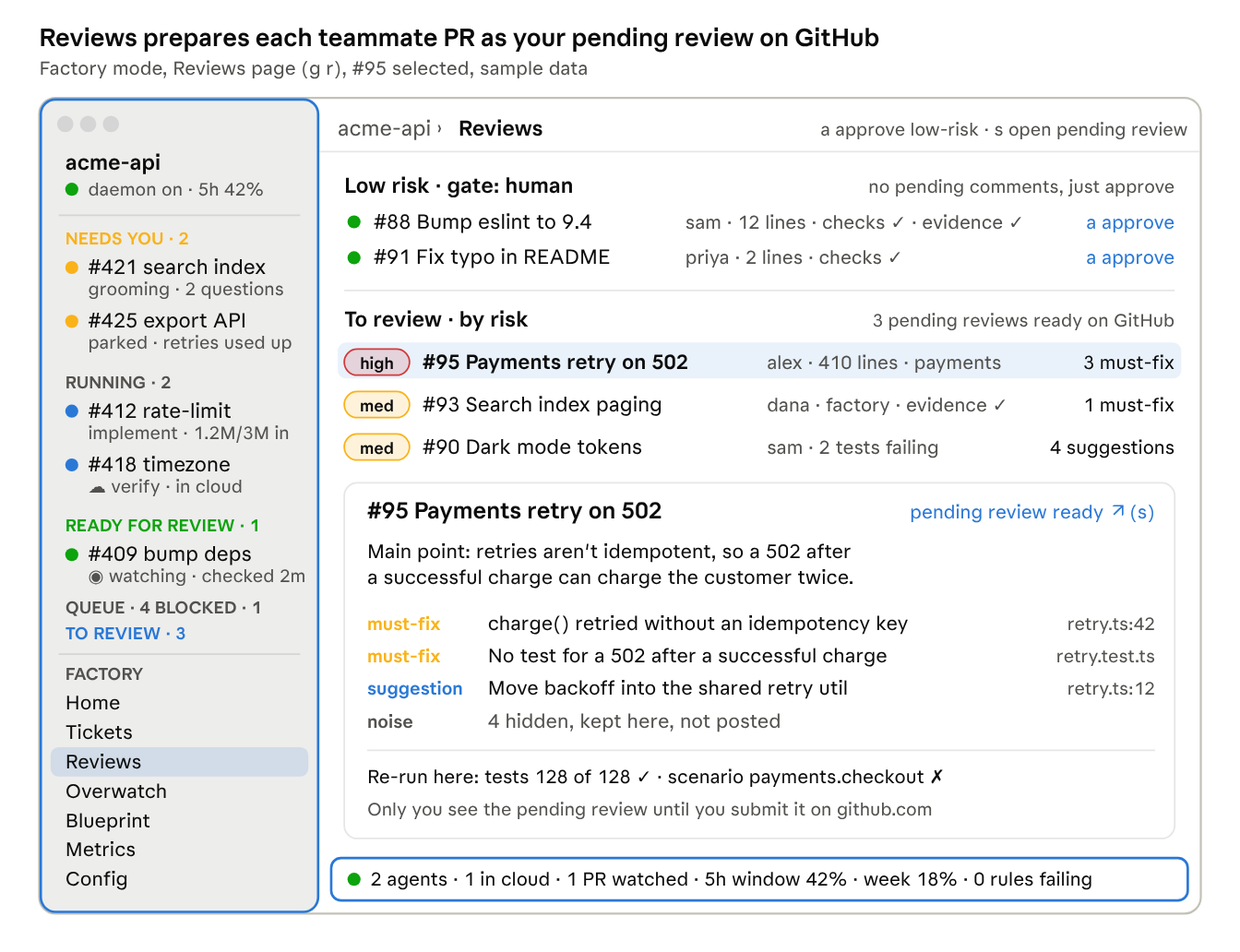
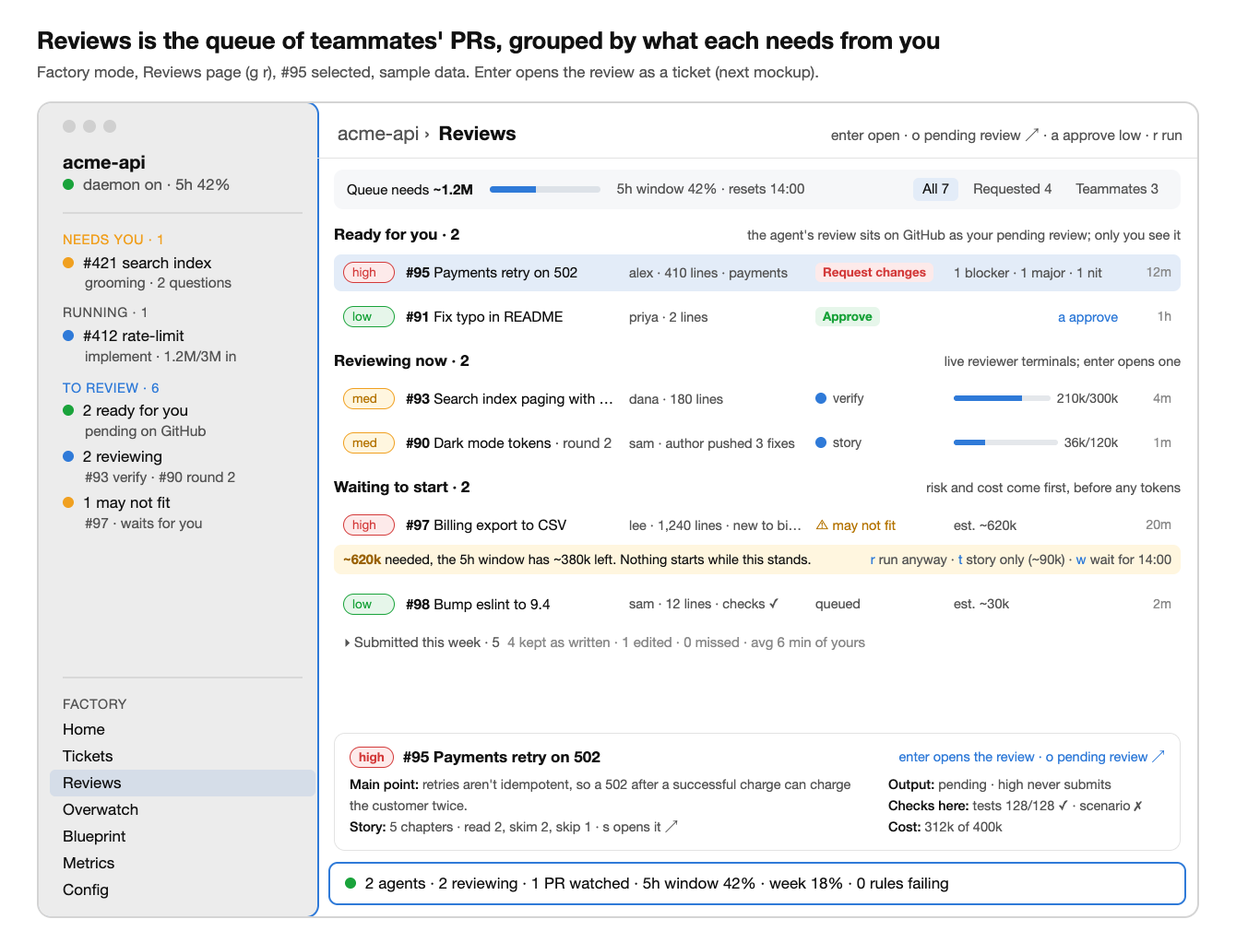
Redesign the Reviews page for peer review as a ticket
The old page (a low-risk fast lane, then a risk-ordered list with must-fix,
suggestion and noise) predates the M6 redesign. The new one is two views:
a queue grouped by what each PR needs from you (ready, reviewing, waiting
with the cost warning, submitted), and the review as a ticket with Findings,
Story, Checks, Questions and Rounds tabs beside the live reviewer terminal or
the comment as it will read on GitHub. Three mockups, their HTML sources and a
render script; reviews.json's version 2 fields in the plan.

Changed region(s): [[0.0306, 0.0307, 0.9791, 1.0], [0.2448, 0.1842, 0.9791, 0.4911], [0.8567, 0.6446, 0.9485, 0.7366]]

diff --git a/docs/layouts/src/08c-review-round.html b/docs/layouts/src/08c-review-round.html
@@ -1,0 +1,113 @@
+<!doctype html><html><head><meta charset="utf-8"><link rel="stylesheet" href="mock.css">
+<style>
+.split { flex: 1; min-height: 0; display: grid; grid-template-columns: 1fr 375px; gap: 12px; }
+.left { border: 2px solid var(--focus); border-radius: 12px; padding: 16px 18px; display: flex; flex-direction: column; gap: 12px; min-width: 0; }
+.vbar { display: flex; align-items: center; gap: 12px; padding: 10px 12px; border-radius: 10px; background: var(--red-bg); }
+.vbar .v { font-weight: 700; color: var(--red); font-size: 17px; } .vbar .why { color: var(--muted); font-size: 14.5px; }
+.vbar .out { margin-left: auto; font-size: 14.5px; text-align: right; color: var(--muted); line-height: 1.35; } .vbar .out b { color: var(--ink); font-weight: 600; }
+.stages { display: flex; align-items: center; gap: 0; font-size: 14px; color: var(--muted); }
+.stages span { display: flex; align-items: center; gap: 6px; } .stages span::before { content: ""; width: 10px; height: 10px; border-radius: 50%; background: var(--green); }
+.stages i { flex: 1; height: 2px; background: #cfd5dc; margin: 0 6px; min-width: 8px; } .stages .cost { margin-left: 16px; white-space: nowrap; }
+.tabs { white-space: nowrap; display: flex; gap: 4px; border-bottom: 1px solid var(--line); font-size: 15px; } .tabs span { padding: 6px 12px; color: var(--muted); border-bottom: 2px solid transparent; margin-bottom: -1px; }
+.tabs .on { color: var(--ink); border-color: var(--focus); font-weight: 600; } .tabs em { font-style: normal; color: var(--dim); }
+.f { display: grid; grid-template-columns: 74px 1fr auto; gap: 2px 12px; padding: 9px 10px; border-radius: 8px; }
+.f.sel { background: var(--sel); }
+.sev { font-size: 12.5px; font-weight: 700; letter-spacing: .5px; padding-top: 2px; } .sev.b { color: var(--red); } .sev.m { color: #b47300; } .sev.n { color: var(--dim); }
+.f .tx { font-size: 15.5px; } .f .loc { font-size: 13.5px; color: var(--dim); text-align: right; }
+.f .ev { grid-column: 2 / 4; font-size: 13.5px; color: var(--muted); }
+.vote { display: inline-block; font-size: 12.5px; padding: 0 6px; border-radius: 5px; margin-right: 8px; }
+.vote.k { background: var(--green-bg); color: var(--green); } .vote.s { background: var(--amber-bg); color: #9a6200; }
+.foot { font-size: 14px; color: var(--muted); padding: 2px 10px; }
+.q { border-top: 1px solid var(--line); padding-top: 10px; font-size: 15px; } .q b { font-weight: 600; }
+.right { display: flex; flex-direction: column; gap: 10px; min-width: 0; }
+.code { flex: 1; border: 1.5px solid var(--line); border-radius: 12px; overflow: hidden; display: flex; flex-direction: column; background: #fbfbfc; }
+.code .t { padding: 9px 14px; font-size: 14.5px; border-bottom: 1px solid var(--line); background: #fff; display: flex; } .code .t span { margin-left: auto; color: var(--dim); font-size: 13.5px; }
+.ln { white-space: pre; display: grid; grid-template-columns: 38px 1fr; font: 12.5px/1.6 "SF Mono", Menlo, monospace; padding: 0 10px 0 0; }
+.ln i { font-style: normal; color: #aab; text-align: right; padding-right: 10px; } .ln.hl { background: #fff1c9; }
+.kw { color: #a626a4; } .fn { color: #4078f2; } .st { color: #50a14f; } .cm { color: #a0a1a7; }
+.gh { white-space: normal; margin: 6px 12px 8px 40px; border: 1.5px solid var(--line); border-radius: 10px; background: #fff; padding: 9px 12px; font-size: 14px; line-height: 1.45; }
+.gh .who { color: var(--muted); font-size: 13px; margin-bottom: 4px; } .gh .who b { color: var(--ink); }
+.term { border: 1.5px solid var(--line); border-radius: 12px; padding: 10px 14px; font: 13px/1.55 "SF Mono", Menlo, monospace; color: var(--muted); background: #f6f6f6; }
+.term b { font-family: -apple-system, sans-serif; font-size: 14px; color: var(--ink); font-weight: 600; }
+.msg { border: 1.5px solid var(--line); border-radius: 10px; padding: 9px 14px; color: var(--dim); font-size: 15px; display: flex; } .msg span { margin-left: auto; color: var(--blue); }
+
+.ch { display: grid; grid-template-columns: 26px 1fr 64px 92px; gap: 2px 10px; align-items: baseline; padding: 8px 10px; border-radius: 8px; }
+.ch.sel { background: var(--sel); } .ch .n { color: var(--dim); } .ch .tt { font-size: 15.5px; } .ch .why { grid-column: 2 / 5; font-size: 13.5px; color: var(--muted); }
+.tier { font-size: 12.5px; font-weight: 600; padding: 0 7px; border-radius: 5px; text-align: center; } .tier.read { background: var(--blue-bg); color: var(--blue); } .tier.skim { background: #eef0f3; color: var(--muted); } .tier.skip { color: var(--dim); }
+.ch .sz { text-align: right; font-size: 13.5px; color: var(--dim); }
+.rd { font-size: 14px; } .rd h4 { margin: 0 0 6px; font-size: 14.5px; font-weight: 600; } .rd div { display: grid; grid-template-columns: 100px 1fr; gap: 6px; align-items: baseline; padding: 3px 0; }
+.st.f { color: var(--green); } .st.p { color: #9a6200; } .st.o { color: var(--red); }
+.live { flex: 1; border: 2px solid var(--focus); border-radius: 12px; background: #1e1f22; color: #d6d6d6; font: 12.5px/1.65 "SF Mono", Menlo, monospace; padding: 0; overflow: hidden; display: flex; flex-direction: column; }
+.live .t { background: #2a2b2f; color: #eee; padding: 8px 12px; font: 14px -apple-system, sans-serif; } .live .t span { color: #9aa; }
+.live pre { margin: 0; padding: 10px 12px; white-space: pre-wrap; } .live .g { color: #7fd18b; } .live .y { color: #f0c060; } .live .c { color: #7aa7ff; }
+.live .ft { margin-top: auto; padding: 8px 12px; color: #889; font: 13px -apple-system, sans-serif; }
+.stages .todo::before { background: #cfd5dc; }
+.stages .cost::before { display: none; }
+</style></head><body>
+<h1>A re-review shows its story and what each round's findings became</h1>
+<div class="sub">Factory mode, review #90 on round 2 (author pushed fixes), Story tab, sample data. While it runs, the right side is the live reviewer terminal.</div>
+<div class="win">
+  <div class="side">
+    <div class="dots"><i></i><i></i><i></i></div>
+    <div class="brand">acme-api</div><div><span class="dot g"></span>daemon on · 5h 42%</div>
+    <hr>
+    <div class="grp y">NEEDS YOU · 1</div>
+    <div class="it"><span class="dot y"></span>#421 search index<small>grooming · 2 questions</small></div>
+    <div class="grp">RUNNING · 1</div>
+    <div class="it"><span class="dot b"></span>#412 rate-limit<small>implement · 1.2M/3M in</small></div>
+    <div class="grp b" style="margin-top:8px">TO REVIEW · 6</div>
+    <div class="it"><span class="dot g"></span>2 ready for you<small>pending on GitHub</small></div>
+    <div class="it"><span class="dot b"></span>#93 search paging<small>verify · 210k/300k</small></div>
+    <div class="it" style="background:#d5dde8;margin:0 -14px 6px;padding:2px 14px;border-radius:6px"><span class="dot b"></span>#90 dark mode<small>round 2 · story</small></div>
+    <hr style="margin-top:auto">
+    <div class="grp">FACTORY</div>
+    <div class="menu"><div>Home</div><div>Tickets</div><div class="on">Reviews</div><div>Overwatch</div><div>Blueprint</div><div>Metrics</div><div>Config</div></div>
+  </div>
+  <div class="main">
+    <div class="hdr"><span class="crumb">acme-api › Reviews ›</span><b>#90 Dark mode tokens</b><span class="keys">s story ↗ · e terminal · p pause · d diff</span></div>
+    <div class="body">
+      <div class="split">
+        <div class="left">
+          <div class="stages"><span>intake</span><i></i><span>prep</span><i></i><span style="color:var(--blue)">story</span><i></i><span class="todo">review</span><i></i><span class="todo">verify</span><i></i><span class="todo">post</span><span class="cost">36k/120k</span></div>
+          <div class="tabs"><span>1 Findings</span><span class="on">2 Story <em>4</em></span><span>3 Checks</span><span>4 Questions</span><span>5 Rounds <em>2</em></span></div>
+          <div class="muted" style="font-size:14.5px;padding:0 10px">Read these first, in this order. Every why links to where it was written; s opens the full story ↗</div>
+          <div>
+            <div class="ch sel"><span class="n">1</span><span class="tt">Core: tokens move from hex to theme roles</span><span class="tier read">read</span><span class="sz">+140 −96</span>
+              <span class="why">why: "one source for both themes" · PR body ↗</span></div>
+            <div class="ch"><span class="n">2</span><span class="tt">What it affects: 14 components read roles</span><span class="tier skim">skim</span><span class="sz">+62 −62</span>
+              <span class="why">mechanical rename, same pattern each time</span></div>
+            <div class="ch"><span class="n">3</span><span class="tt">Glue: the theme provider picks light or dark</span><span class="tier read">read</span><span class="sz">+38 −4</span>
+              <span class="why">why: <span class="amb">nobody wrote it down</span> → becomes a question for sam</span></div>
+            <div class="ch"><span class="n">4</span><span class="tt">Tests and snapshots</span><span class="tier skip">skip</span><span class="sz">+210 −180</span>
+              <span class="why">generated snapshots; the checks re-run them here</span></div>
+          </div>
+          <div class="rd" style="border-top:1px solid var(--line);padding:10px 10px 0"><h4>Round 1 → round 2 <span class="muted" style="font-weight:400">· sam pushed 3 commits</span></h4>
+            <div><span class="st f">fixed</span><span>Contrast below 4.5:1 on muted text · in a1b2c3, checked again ✓</span></div>
+            <div><span class="st f">fixed</span><span>Hard-coded #fff in Toast · in d4e5f6</span></div>
+            <div><span class="st p">pushed back</span><span>"Keep the old names as aliases": sam says no callers remain. Verify checks that claim.</span></div>
+            <div><span class="st o">open</span><span>No dark-mode snapshot for Modal</span></div>
+          </div>
+        </div>
+        <div class="right">
+          <div class="live">
+            <div class="t">reviewer <span>· round 2 · story · ctx 18% · live Herdr terminal</span></div>
+<pre><span class="c">&gt;</span> Reading the round 1 review and 3 new commits
+<span class="c">&gt;</span> git diff round-1..HEAD -- src/theme
+<span class="g">✓</span> a1b2c3 fixes "contrast below 4.5:1"
+<span class="g">✓</span> d4e5f6 fixes "hard-coded #fff"
+<span class="c">&gt;</span> rg -n "colors\.(primary|muted)" src
+<span class="y">!</span> 0 callers left: sam's pushback holds
+<span class="c">&gt;</span> Chapter 3: why does the provider read
+  prefers-color-scheme before settings?
+  Not in the PR, commits or ticket.
+<span class="c">&gt;</span> Writing STORY.md chapter 3 …
+<span style="background:#d6d6d6"> </span></pre>
+            <div class="ft">type here to steer the reviewer</div>
+          </div>
+        </div>
+      </div>
+    </div>
+    <div class="status"><span class="dot g"></span>2 agents · 2 reviewing · 1 PR watched · 5h window 42% · week 18% · 0 rules failing</div>
+  </div>
+</div>
+</body></html>

diff --git a/docs/layouts/src/08b-review.html b/docs/layouts/src/08b-review.html
@@ -1,0 +1,99 @@
+<!doctype html><html><head><meta charset="utf-8"><link rel="stylesheet" href="mock.css">
+<style>
+.split { flex: 1; min-height: 0; display: grid; grid-template-columns: 1fr 375px; gap: 12px; }
+.left { border: 2px solid var(--focus); border-radius: 12px; padding: 16px 18px; display: flex; flex-direction: column; gap: 12px; min-width: 0; }
+.vbar { display: flex; align-items: center; gap: 12px; padding: 10px 12px; border-radius: 10px; background: var(--red-bg); }
+.vbar .v { font-weight: 700; color: var(--red); font-size: 17px; } .vbar .why { color: var(--muted); font-size: 14.5px; }
+.vbar .out { margin-left: auto; font-size: 14.5px; text-align: right; color: var(--muted); line-height: 1.35; } .vbar .out b { color: var(--ink); font-weight: 600; }
+.stages { display: flex; align-items: center; gap: 0; font-size: 14px; color: var(--muted); }
+.stages span { display: flex; align-items: center; gap: 6px; } .stages span::before { content: ""; width: 10px; height: 10px; border-radius: 50%; background: var(--green); }
+.stages i { flex: 1; height: 2px; background: #cfd5dc; margin: 0 6px; min-width: 8px; } .stages .cost { margin-left: 16px; white-space: nowrap; }
+.tabs { white-space: nowrap; display: flex; gap: 4px; border-bottom: 1px solid var(--line); font-size: 15px; } .tabs span { padding: 6px 12px; color: var(--muted); border-bottom: 2px solid transparent; margin-bottom: -1px; }
+.tabs .on { color: var(--ink); border-color: var(--focus); font-weight: 600; } .tabs em { font-style: normal; color: var(--dim); }
+.f { display: grid; grid-template-columns: 74px 1fr auto; gap: 2px 12px; padding: 9px 10px; border-radius: 8px; }
+.f.sel { background: var(--sel); }
+.sev { font-size: 12.5px; font-weight: 700; letter-spacing: .5px; padding-top: 2px; } .sev.b { color: var(--red); } .sev.m { color: #b47300; } .sev.n { color: var(--dim); }
+.f .tx { font-size: 15.5px; } .f .loc { font-size: 13.5px; color: var(--dim); text-align: right; }
+.f .ev { grid-column: 2 / 4; font-size: 13.5px; color: var(--muted); }
+.vote { display: inline-block; font-size: 12.5px; padding: 0 6px; border-radius: 5px; margin-right: 8px; }
+.vote.k { background: var(--green-bg); color: var(--green); } .vote.s { background: var(--amber-bg); color: #9a6200; }
+.foot { font-size: 14px; color: var(--muted); padding: 2px 10px; }
+.q { border-top: 1px solid var(--line); padding-top: 10px; font-size: 15px; } .q b { font-weight: 600; }
+.right { display: flex; flex-direction: column; gap: 10px; min-width: 0; }
+.code { flex: 1; border: 1.5px solid var(--line); border-radius: 12px; overflow: hidden; display: flex; flex-direction: column; background: #fbfbfc; }
+.code .t { padding: 9px 14px; font-size: 14.5px; border-bottom: 1px solid var(--line); background: #fff; display: flex; } .code .t span { margin-left: auto; color: var(--dim); font-size: 13.5px; }
+.ln { white-space: pre; display: grid; grid-template-columns: 38px 1fr; font: 12.5px/1.6 "SF Mono", Menlo, monospace; padding: 0 10px 0 0; }
+.ln i { font-style: normal; color: #aab; text-align: right; padding-right: 10px; } .ln.hl { background: #fff1c9; }
+.kw { color: #a626a4; } .fn { color: #4078f2; } .st { color: #50a14f; } .cm { color: #a0a1a7; }
+.gh { white-space: normal; margin: 6px 12px 8px 40px; border: 1.5px solid var(--line); border-radius: 10px; background: #fff; padding: 9px 12px; font-size: 14px; line-height: 1.45; }
+.gh .who { color: var(--muted); font-size: 13px; margin-bottom: 4px; } .gh .who b { color: var(--ink); }
+.term { border: 1.5px solid var(--line); border-radius: 12px; padding: 10px 14px; font: 13px/1.55 "SF Mono", Menlo, monospace; color: var(--muted); background: #f6f6f6; }
+.term b { font-family: -apple-system, sans-serif; font-size: 14px; color: var(--ink); font-weight: 600; }
+.msg { border: 1.5px solid var(--line); border-radius: 10px; padding: 9px 14px; color: var(--dim); font-size: 15px; display: flex; } .msg span { margin-left: auto; color: var(--blue); }
+.stages .cost::before { display: none; }
+</style></head><body>
+<h1>A review is a ticket: the agent's verdict, its findings and how it posts</h1>
+<div class="sub">Factory mode, review #95 (enter on Reviews), Findings tab, sample data. The right side shows the selected finding as it will read on GitHub.</div>
+<div class="win">
+  <div class="side">
+    <div class="dots"><i></i><i></i><i></i></div>
+    <div class="brand">acme-api</div><div><span class="dot g"></span>daemon on · 5h 42%</div>
+    <hr>
+    <div class="grp y">NEEDS YOU · 1</div>
+    <div class="it"><span class="dot y"></span>#421 search index<small>grooming · 2 questions</small></div>
+    <div class="grp">RUNNING · 1</div>
+    <div class="it"><span class="dot b"></span>#412 rate-limit<small>implement · 1.2M/3M in</small></div>
+    <div class="grp b" style="margin-top:8px">TO REVIEW · 6</div>
+    <div class="it" style="background:#d5dde8;margin:0 -14px 6px;padding:2px 14px;border-radius:6px"><span class="dot g"></span>#95 payments retry<small>ready · request changes</small></div>
+    <div class="it"><span class="dot g"></span>#91 fix typo<small>ready · approve</small></div>
+    <div class="it"><span class="dot b"></span>2 reviewing<small>#93 verify · #90 round 2</small></div>
+    <hr style="margin-top:auto">
+    <div class="grp">FACTORY</div>
+    <div class="menu"><div>Home</div><div>Tickets</div><div class="on">Reviews</div><div>Overwatch</div><div>Blueprint</div><div>Metrics</div><div>Config</div></div>
+  </div>
+  <div class="main">
+    <div class="hdr"><span class="crumb">acme-api › Reviews ›</span><b>#95 Payments retry on 502</b><span class="keys">o pending review ↗ · s story ↗ · e terminal · d diff</span></div>
+    <div class="body">
+      <div class="split">
+        <div class="left">
+          <div class="vbar"><span class="v" style="white-space:nowrap">Request changes</span><span class="why">1 blocker, kept<br>by both votes</span>
+            <span class="out"><b>Pending on GitHub</b><br>high: you submit it</span></div>
+          <div class="stages"><span>intake</span><i></i><span>prep</span><i></i><span>story</span><i></i><span>review</span><i></i><span>verify</span><i></i><span>post</span><span class="cost">312k/400k</span></div>
+          <div class="tabs"><span class="on">1 Findings <em>3</em></span><span>2 Story <em>5</em></span><span>3 Checks</span><span>4 Questions <em>1</em></span><span>5 Rounds <em>1</em></span></div>
+          <div>
+            <div class="f sel"><span class="sev b">BLOCKER</span><span class="tx">charge() is retried without an idempotency key</span><span class="loc mono">retry.ts:42</span>
+              <span class="ev"><span class="vote k">✓ ✓ kept</span>ran it: a 502 after a 200 charges twice · new in this PR (git blame)</span></div>
+            <div class="f"><span class="sev m">MAJOR</span><span class="tx">No test for a 502 after a successful charge</span><span class="loc mono">retry.test.ts</span>
+              <span class="ev"><span class="vote s">✓ ✗ split</span>kept and marked: one verifier found a similar test in checkout.test.ts</span></div>
+            <div class="f"><span class="sev n">NIT</span><span class="tx">Move the backoff into the shared retry util</span><span class="loc mono">retry.ts:12</span>
+              <span class="ev">your taste: "one retry helper per service"</span></div>
+          </div>
+          <div class="foot">2 dropped by vote · 1 pre-existing, not blocking · noise stays in REVIEW-DRAFT.md · h shows them</div>
+          <div class="q"><b>Question for alex</b> <span class="muted">(from the story: a why nobody wrote down)</span><br>Why 5 retries? The PR, commits and ticket don't say.</div>
+          <div class="msg" style="margin-top:auto">Tell the reviewer: drop the nit, ask about the 5 retries…<span>↑</span></div>
+        </div>
+        <div class="right">
+          <div class="code">
+            <div class="t"><b>retry.ts</b><span>as it will read on GitHub</span></div>
+            <div style="padding:8px 0">
+              <div class="ln"><i>38</i><span><span class="kw">export async function</span> <span class="fn">charge</span>(order) {</span></div>
+              <div class="ln"><i>39</i><span>  <span class="kw">for</span> (<span class="kw">let</span> i = 0; i &lt; 5; i++) {</span></div>
+              <div class="ln"><i>40</i><span>    <span class="kw">try</span> {</span></div>
+              <div class="ln"><i>41</i><span>      <span class="kw">const</span> res = <span class="kw">await</span> <span class="fn">pay</span>({</span></div>
+              <div class="ln hl"><i>42</i><span>        amount: order.total });</span></div>
+              <div class="gh"><div class="who"><b>you</b> · pending · blocker</div>
+                <b>blocker:</b> a 502 can come back after the charge succeeded, and this retries it without an idempotency key, so the customer is charged twice. Reproduced with the PSP sandbox. Pass <span class="mono">Idempotency-Key: order.id</span>.</div>
+              <div class="ln"><i>43</i><span>      <span class="kw">if</span> (res.status !== 502) <span class="kw">return</span> res;</span></div>
+              <div class="ln"><i>44</i><span>    } <span class="kw">catch</span> (e) { <span class="cm">// network</span></span></div>
+              <div class="ln"><i>45</i><span>      <span class="kw">await</span> <span class="fn">sleep</span>(backoff(i));</span></div>
+              <div class="ln"><i>46</i><span>    }</span></div>
+            </div>
+          </div>
+          <div class="term"><b>reviewer</b> · done 4m ago · e terminal<br>&gt; pending review: 3 comments<br>✓ verify: 2 kept · 1 split · 2 dropped</div>
+        </div>
+      </div>
+    </div>
+    <div class="status"><span class="dot g"></span>2 agents · 2 reviewing · 1 PR watched · 5h window 42% · week 18% · 0 rules failing</div>
+  </div>
+</div>
+</body></html>

diff --git a/docs/layouts/src/08-reviews.html b/docs/layouts/src/08-reviews.html
@@ -1,0 +1,76 @@
+<!doctype html><html><head><meta charset="utf-8"><link rel="stylesheet" href="mock.css">
+<style>
+.strip { white-space: nowrap; display: flex; align-items: center; gap: 18px; padding: 9px 14px; background: var(--surface); border-radius: 10px; font-size: 15px; }
+.strip .bar { width: 120px; height: 7px; border-radius: 4px; background: #dde2e8; overflow: hidden; } .strip .bar i { display: block; height: 100%; background: var(--blue); }
+.tabs { display: flex; gap: 6px; margin-left: auto; } .tabs span { padding: 2px 10px; border-radius: 6px; color: var(--muted); } .tabs .on { background: var(--sel); color: var(--ink); }
+.row { display: grid; grid-template-columns: 56px minmax(0,1fr) 190px 138px 178px 46px; align-items: center; gap: 12px; height: 40px; padding: 0 10px; border-radius: 8px; font-size: 15.5px; }
+.row.sel { background: var(--sel); }
+.row .t { white-space: nowrap; overflow: hidden; text-overflow: ellipsis; } .row .t b { font-weight: 600; }
+.row .who, .row .what { white-space: nowrap; overflow: hidden; text-overflow: ellipsis; color: var(--muted); font-size: 14.5px; }
+.row .verdict { justify-self: start; }
+.row .age { text-align: right; color: var(--dim); font-size: 14px; }
+.row .act { text-align: right; font-size: 14.5px; white-space: nowrap; }
+.prog { display: flex; align-items: center; gap: 7px; font-size: 14px; color: var(--muted); }
+.prog .bar { flex: 1; height: 6px; border-radius: 3px; background: #e4e7eb; overflow: hidden; } .prog .bar i { display: block; height: 100%; background: var(--blue); }
+.warn { grid-column: 2 / 7; margin: -6px 0 4px 0; padding: 6px 10px; border-radius: 8px; background: var(--amber-bg); font-size: 14.5px; display: flex; gap: 14px; }
+.warn b { color: #9a6200; font-weight: 600; } .warn .k { margin-left: auto; color: var(--muted); } .warn .k em { font-style: normal; color: var(--blue); }
+.fold { color: var(--muted); font-size: 15px; padding: 4px 10px; }
+.peek { margin-top: auto; padding: 14px 16px; display: grid; grid-template-columns: 1fr 300px; gap: 6px 24px; }
+.peek h3 { margin: 0; font-size: 17px; font-weight: 600; grid-column: 1 / 3; display: flex; gap: 10px; align-items: center; }
+.peek h3 .r { margin-left: auto; font-weight: 400; font-size: 14.5px; color: var(--blue); }
+.peek .kv { font-size: 14.5px; color: var(--muted); line-height: 1.6; } .peek .kv b { color: var(--ink); font-weight: 500; }
+</style></head><body>
+<h1>Reviews is the queue of teammates' PRs, grouped by what each needs from you</h1>
+<div class="sub">Factory mode, Reviews page (g r), #95 selected, sample data. Enter opens the review as a ticket (next mockup).</div>
+<div class="win">
+  <div class="side">
+    <div class="dots"><i></i><i></i><i></i></div>
+    <div class="brand">acme-api</div><div><span class="dot g"></span>daemon on · 5h 42%</div>
+    <hr>
+    <div class="grp y">NEEDS YOU · 1</div>
+    <div class="it"><span class="dot y"></span>#421 search index<small>grooming · 2 questions</small></div>
+    <div class="grp">RUNNING · 1</div>
+    <div class="it"><span class="dot b"></span>#412 rate-limit<small>implement · 1.2M/3M in</small></div>
+    <div class="grp b" style="margin-top:8px">TO REVIEW · 6</div>
+    <div class="it"><span class="dot g"></span>2 ready for you<small>pending on GitHub</small></div>
+    <div class="it"><span class="dot b"></span>2 reviewing<small>#93 verify · #90 round 2</small></div>
+    <div class="it"><span class="dot y"></span>1 may not fit<small>#97 · waits for you</small></div>
+    <hr style="margin-top:auto">
+    <div class="grp">FACTORY</div>
+    <div class="menu"><div>Home</div><div>Tickets</div><div class="on">Reviews</div><div>Overwatch</div><div>Blueprint</div><div>Metrics</div><div>Config</div></div>
+  </div>
+  <div class="main">
+    <div class="hdr"><span class="crumb">acme-api ›</span><b>Reviews</b><span class="keys">enter open · o pending review ↗ · a approve low · r run</span></div>
+    <div class="body">
+      <div class="strip">
+        <span>Queue needs <b>~1.2M</b></span>
+        <span class="bar"><i style="width:42%"></i></span><span class="muted">5h window 42% · resets 14:00</span>
+        
+        <div class="tabs"><span class="on">All 7</span><span>Requested 4</span><span>Teammates 3</span></div>
+      </div>
+
+      <div class="sec"><b>Ready for you · 2</b><span>the agent's review sits on GitHub as your pending review; only you see it</span></div>
+      <div class="row sel"><span class="chip high">high</span><span class="t"><b>#95</b> Payments retry on 502</span><span class="who">alex · 410 lines · payments</span><span class="verdict rc">Request changes</span><span class="what">1 blocker · 1 major · 1 nit</span><span class="age">12m</span></div>
+      <div class="row"><span class="chip low">low</span><span class="t"><b>#91</b> Fix typo in README</span><span class="who">priya · 2 lines</span><span class="verdict ap">Approve</span><span class="act acc">a approve</span><span class="age">1h</span></div>
+
+      <div class="sec"><b>Reviewing now · 2</b><span>live reviewer terminals; enter opens one</span></div>
+      <div class="row"><span class="chip med">med</span><span class="t"><b>#93</b> Search index paging with a very long title that the table cuts so the columns stay put</span><span class="who">dana · 180 lines</span><span class="prog"><span class="dot b" style="margin:0"></span>verify</span><span class="prog"><span class="bar"><i style="width:70%"></i></span>210k/300k</span><span class="age">4m</span></div>
+      <div class="row"><span class="chip med">med</span><span class="t"><b>#90</b> Dark mode tokens <span class="muted">· round 2</span></span><span class="who">sam · author pushed 3 fixes</span><span class="prog"><span class="dot b" style="margin:0"></span>story</span><span class="prog"><span class="bar"><i style="width:30%"></i></span>36k/120k</span><span class="age">1m</span></div>
+
+      <div class="sec"><b>Waiting to start · 2</b><span>risk and cost come first, before any tokens</span></div>
+      <div class="row"><span class="chip high">high</span><span class="t"><b>#97</b> Billing export to CSV</span><span class="who">lee · 1,240 lines · new to billing</span><span class="amb" style="font-size:14.5px">⚠ may not fit</span><span class="what">est. ~620k</span><span class="age">20m</span></div>
+      <div class="warn"><span><b>~620k</b> needed, the 5h window has ~380k left. Nothing starts while this stands.</span><span class="k"><em>r</em> run anyway · <em>t</em> story only (~90k) · <em>w</em> wait for 14:00</span></div>
+      <div class="row"><span class="chip low">low</span><span class="t"><b>#98</b> Bump eslint to 9.4</span><span class="who">sam · 12 lines · checks ✓</span><span class="muted" style="font-size:14.5px">queued</span><span class="what">est. ~30k</span><span class="age">2m</span></div>
+
+      <div class="fold">▸ Submitted this week · 5 &nbsp;<span class="dimc">4 kept as written · 1 edited · 0 missed · avg 6 min of yours</span></div>
+
+      <div class="peek card">
+        <h3><span class="chip high">high</span>#95 Payments retry on 502<span class="r">enter opens the review · o pending review ↗</span></h3>
+        <div class="kv"><b>Main point:</b> retries aren't idempotent, so a 502 after a successful charge can charge the customer twice.<br><b>Story:</b> 5 chapters · read 2, skim 2, skip 1 · s opens it ↗</div>
+        <div class="kv"><b>Output:</b> pending · high never submits<br><b>Checks here:</b> tests 128/128 ✓ · scenario ✗<br><b>Cost:</b> 312k of 400k</div>
+      </div>
+    </div>
+    <div class="status"><span class="dot g"></span>2 agents · 2 reviewing · 1 PR watched · 5h window 42% · week 18% · 0 rules failing</div>
+  </div>
+</div>
+</body></html>

diff --git a/docs/layouts/src/mock.css b/docs/layouts/src/mock.css
@@ -1,0 +1,38 @@
+/* Shared look for the page mockups in docs/layouts/. Render with scripts in this folder's README. */
+:root {
+  --ink: #111; --muted: #555; --dim: #8a8a8a; --line: #e3e3e3; --chrome: #ececec; --surface: #f6f7f9;
+  --sel: #e3ecf8; --focus: #2f7ad8; --blue: #2f7ad8; --green: #1aa33b; --amber: #f0a020; --red: #d33a3a;
+  --amber-bg: #fff6df; --red-bg: #fdeaea; --green-bg: #e6f6ea; --blue-bg: #e7f0fc;
+}
+* { box-sizing: border-box; }
+body { margin: 0; padding: 26px 40px 20px; width: 1340px; background: #fff; color: var(--ink);
+  font: 15px/1.35 -apple-system, "SF Pro Text", "Inter", "Helvetica Neue", sans-serif; }
+h1 { font-size: 26px; font-weight: 600; margin: 0 0 6px; letter-spacing: -0.2px; }
+.sub { color: var(--muted); font-size: 17px; margin-bottom: 20px; }
+.win { display: grid; grid-template-columns: 302px 1fr; border: 2px solid #d4d4d4; border-radius: 16px; height: 886px; overflow: hidden; }
+.side { background: var(--chrome); border: 2px solid var(--focus); border-radius: 14px; margin: -2px; padding: 18px 16px 14px 26px; font-size: 17px; display: flex; flex-direction: column; }
+.dots { display: flex; gap: 8px; margin-bottom: 18px; } .dots i { width: 14px; height: 14px; border-radius: 50%; background: #d0d0d0; }
+.brand { font-size: 20px; font-weight: 600; } .brand + div { color: var(--muted); margin-bottom: 14px; }
+.side hr { border: 0; border-top: 2px solid #d8d8d8; margin: 4px 0 12px; }
+.grp { font-size: 14.5px; letter-spacing: .6px; margin: 6px 0 4px; color: var(--muted); }
+.grp.y { color: var(--amber); } .grp.g { color: var(--green); } .grp.b { color: var(--blue); }
+.it { margin: 0 0 6px; } .it small { display: block; color: var(--muted); font-size: 15.5px; margin-left: 24px; }
+.dot { display: inline-block; width: 12px; height: 12px; border-radius: 50%; margin-right: 10px; vertical-align: 0; }
+.dot.y { background: var(--amber); } .dot.g { background: var(--green); } .dot.b { background: var(--blue); } .dot.r { background: var(--red); } .dot.o { background: #fff; border: 2px solid var(--dim); }
+.menu div { padding: 3px 0; } .menu .on { background: #d5dde8; margin: 0 -14px; padding: 3px 14px; border-radius: 6px; }
+.main { display: flex; flex-direction: column; min-width: 0; }
+.hdr { display: flex; align-items: baseline; gap: 10px; padding: 18px 16px 12px 22px; border-bottom: 1px solid var(--line); font-size: 21px; }
+.hdr .crumb { color: var(--muted); } .hdr b { font-weight: 600; } .hdr .keys { margin-left: auto; font-size: 15.5px; color: var(--muted); }
+.body { flex: 1; min-height: 0; padding: 12px 18px; display: flex; flex-direction: column; gap: 8px; }
+.status { margin: 0 12px 12px; border: 2px solid var(--focus); border-radius: 10px; padding: 10px 16px; font-size: 17px; }
+.chip { display: inline-block; border: 1.5px solid; border-radius: 999px; padding: 0 9px; font-size: 13.5px; line-height: 21px; white-space: nowrap; }
+.chip.high { color: var(--red); border-color: var(--red); background: var(--red-bg); }
+.chip.med { color: #b47300; border-color: var(--amber); background: var(--amber-bg); }
+.chip.low { color: var(--green); border-color: var(--green); background: var(--green-bg); }
+.verdict { display: inline-block; border-radius: 6px; padding: 1px 8px; font-size: 13.5px; font-weight: 600; white-space: nowrap; }
+.verdict.rc { color: var(--red); background: var(--red-bg); } .verdict.cm { color: #9a6200; background: var(--amber-bg); } .verdict.ap { color: var(--green); background: var(--green-bg); }
+.sec { display: flex; align-items: baseline; margin: 8px 0 2px; } .sec b { font-size: 17px; font-weight: 600; }
+.sec span { margin-left: auto; color: var(--muted); font-size: 14.5px; }
+.mono { font-family: "SF Mono", Menlo, monospace; }
+.muted { color: var(--muted); } .dimc { color: var(--dim); } .acc { color: var(--blue); } .red { color: var(--red); } .grn { color: var(--green); } .amb { color: #b47300; }
+.card { border: 1.5px solid var(--line); border-radius: 12px; background: #fff; }

diff --git a/docs/plan.md b/docs/plan.md
@@ -77,7 +77,7 @@ Each page is drawn below the table. All share one sidebar.
 | Blueprint | Each blueprint as a graph, with run counts and gates per stage; `y` shows its YAML |
 | Metrics | Throughput, Cost, Quality, Learning and Benchmarks tabs over a date range |
 | Config | The `.factory/` files: a list, a readable view of the one selected, its schema check, and `o` to open it in your editor |
-| Reviews | Teammates' PRs waiting on you, by risk, fast lane on top. Opening one shows what the factory found, the independent check results, and a link to your pending review on GitHub, where you finish and submit it |
+| Reviews | Teammates' PRs, grouped by what each needs from you: Ready for you, Reviewing now, Waiting to start (risk and cost first, "⚠ may not fit"), Submitted. A review is a ticket, so opening one is its Ticket page with review tabs: Findings, Story, Checks, Questions, Rounds |
 
 **Metrics.** Throughput: time to PR, human interactions per PR, PRs merged, and cycle time split into pickup to PR, PR to your first review, and review to merge. Cost: cost per PR, spend per day against budget, spend by agent and model. Quality: revert rate per blueprint, ready rules passing on the first try, retries per ticket. Learning: the target over time, each tuning shift with an undo, experiments, the lesson store. Benchmarks: the latest report per stage and per blueprint.
 
@@ -119,7 +119,39 @@ Each page is drawn below the table. All share one sidebar.
 
 #### Reviews
 
-![Reviews · low-risk lane, risk-ordered queue, a prepared pending review](layouts/08-reviews.png)
+Redesigned on 2026-11-23 for peer review as the user redesigned it (below): a review is a ticket on a peer-review blueprint, the agent decides the verdict, the output follows the risk level, and cost comes before tokens. The old page (a low-risk fast lane, then a risk-ordered list with must-fix/suggestion/noise) no longer fits, so the page is two views, both built from Herdr's own parts.
+
+**The queue** (`g r`). One row per PR, grouped by what it needs from you, not by risk:
+
+| Group | Rows show | Your keys |
+| --- | --- | --- |
+| Ready for you | risk, title, author and size, the agent's verdict (Request changes, Comment, Approve), the findings by severity | `enter` opens it · `o` your pending review on GitHub · `a` approve, only a low-risk PR with an Approve verdict |
+| Reviewing now | the live stage with Herdr's agent dot, tokens used against the PR's budget, "round 2" on a re-review | `enter` opens it, with its live terminal |
+| Waiting to start | the estimate; "⚠ may not fit" when it's over what is left of the 5-hour window, the week or today's budget, with one line saying by how much | `r` run anyway · `t` story only · `w` wait for the reset. Nothing starts while the warning stands |
+| Submitted this week | folded; one line of outcomes: kept as written, edited, missed, your minutes | `enter` unfolds |
+
+A strip on top says what the whole queue needs against the 5-hour window, with All, Requested and Teammates filters (`review.queue`). Columns have fixed widths and a title is cut to its column, never pushing the others. A card at the foot previews the selected PR: the main point, the story's tiers, the output, the checks run here and the cost.
+
+**The review** (`enter`). A review is a ticket, so it opens on the Ticket page with review tabs in place of Plan, Checks, Questions and PR:
+
+- **On top:** the agent's verdict and why ("1 blocker, kept by both votes"), and the output the level allows ("Pending on GitHub", or "Submits as Comment" when `submit` is on). Below it, the blueprint's stages as a strip, with tokens against the budget.
+- **1 Findings:** by severity (blocker, major, minor, nit), each with its file and line, the evidence (the input that breaks it, run, or `not reproduced`), the verify vote (kept ✓✓, split ✓✗), and new or pre-existing from `git blame`. A line under the list counts what was dropped by vote and what stays as noise in REVIEW-DRAFT.md (`h` shows them).
+- **2 Story:** the chapters in reading order, each tagged read, skim or skip with its size and its why, linked to where it was written. A why nobody wrote down is marked and becomes a question. `s` opens the full story, the private artifact.
+- **3 Checks:** the author's evidence re-run here, the affected tests, scenarios and lint.
+- **4 Questions:** questions for the author, from the story.
+- **5 Rounds:** on a re-review, each earlier finding as fixed (with the commit), pushed back (with the author's words and what verify made of them) or still open.
+- **The right side:** while the reviewer runs, its live Herdr terminal (type to steer it, as on any ticket). Once it's done, the selected finding in Herdr's read-only code view, with the comment drawn on its line as it will read on GitHub, in your `review.format`. The reviewer's last lines sit below it, and `e` opens its terminal.
+- **Message box:** at the foot, as on every ticket: tell the reviewer to drop a finding or ask something, and it updates the pending review.
+
+The sidebar's To review group shows the same groups as counts (ready, reviewing, may not fit), and opening a review lists it there like a running ticket.
+
+![Reviews · the queue grouped by what each PR needs from you](layouts/08-reviews.png)
+
+![Review · verdict, findings with verify votes, the comment as it will read on GitHub](layouts/08b-review.png)
+
+![Review · round 2: the story's chapters, what round 1's findings became, the live reviewer](layouts/08c-review-round.png)
+
+The mockups' HTML is in `docs/layouts/src/`; `sh docs/layouts/src/render.sh` renders them.
 
 ### The mods
 
@@ -159,7 +191,7 @@ Every action is a click or a key, and each one is a single call to the daemon. T
 | `u` | Answer a question and restart a waiting ticket |
 | `p` | Pause or resume a ticket |
 | `shift-c / shift-l` | Move the ticket to a cloud session / bring it back to local |
-| `g r, then a / o` | Reviews; approve a low-risk PR / open the PR (`s` too) on github.com. `h` shows the hidden noise |
+| `g r` | Reviews. `o` your pending review on GitHub, `a` approve (low risk, Approve verdict), `r` / `t` / `w` run, story only or wait on a PR that may not fit; in a review, `1`–`5` its tabs, `s` the story, `h` the noise |
 | `b` | Change the ticket's budget |
 
 ## Architecture
@@ -455,7 +487,7 @@ An agent's brief pulls the closest past rows, good and bad, as examples. The lea
 
 ### Replaces
 
-This replaces the earlier draft of this section (the low-risk `human`/`auto` gate and the noise-filter training). `reviews.json` keeps its shape in `lib/reviews.js` and gains `level`, `verdict`, `story_url`, `budget` (estimate, fits) and per-finding `severity` (blocker, major, minor, nit, pre-existing).
+This replaces the earlier draft of this section (the low-risk `human`/`auto` gate and the noise-filter training). `reviews.json` keeps its home in `lib/reviews.js` and moves to version 2 for the redesigned page: per PR `ticket`, `group` (ready, reviewing, waiting, submitted), `level`, `verdict`, `output` (pending, submit), `round`, `stage`, `story_url`, `budget` (`used`, `limit`, `estimate`, `fits`, `short_by`), `chapters` (title, tier, size, why, `why_url`), `questions`, `rounds` (finding, state: fixed, pushed back, open; commit or reply), and per finding `severity` (blocker, major, minor, nit), `vote` (kept, split), `new` (from blame), `evidence` and `comment` (as it will read on GitHub). `low_risk` and the must-fix, suggestion and noise kinds go; noise is a count and a pointer to REVIEW-DRAFT.md.
 
 ## Learning loop
 
